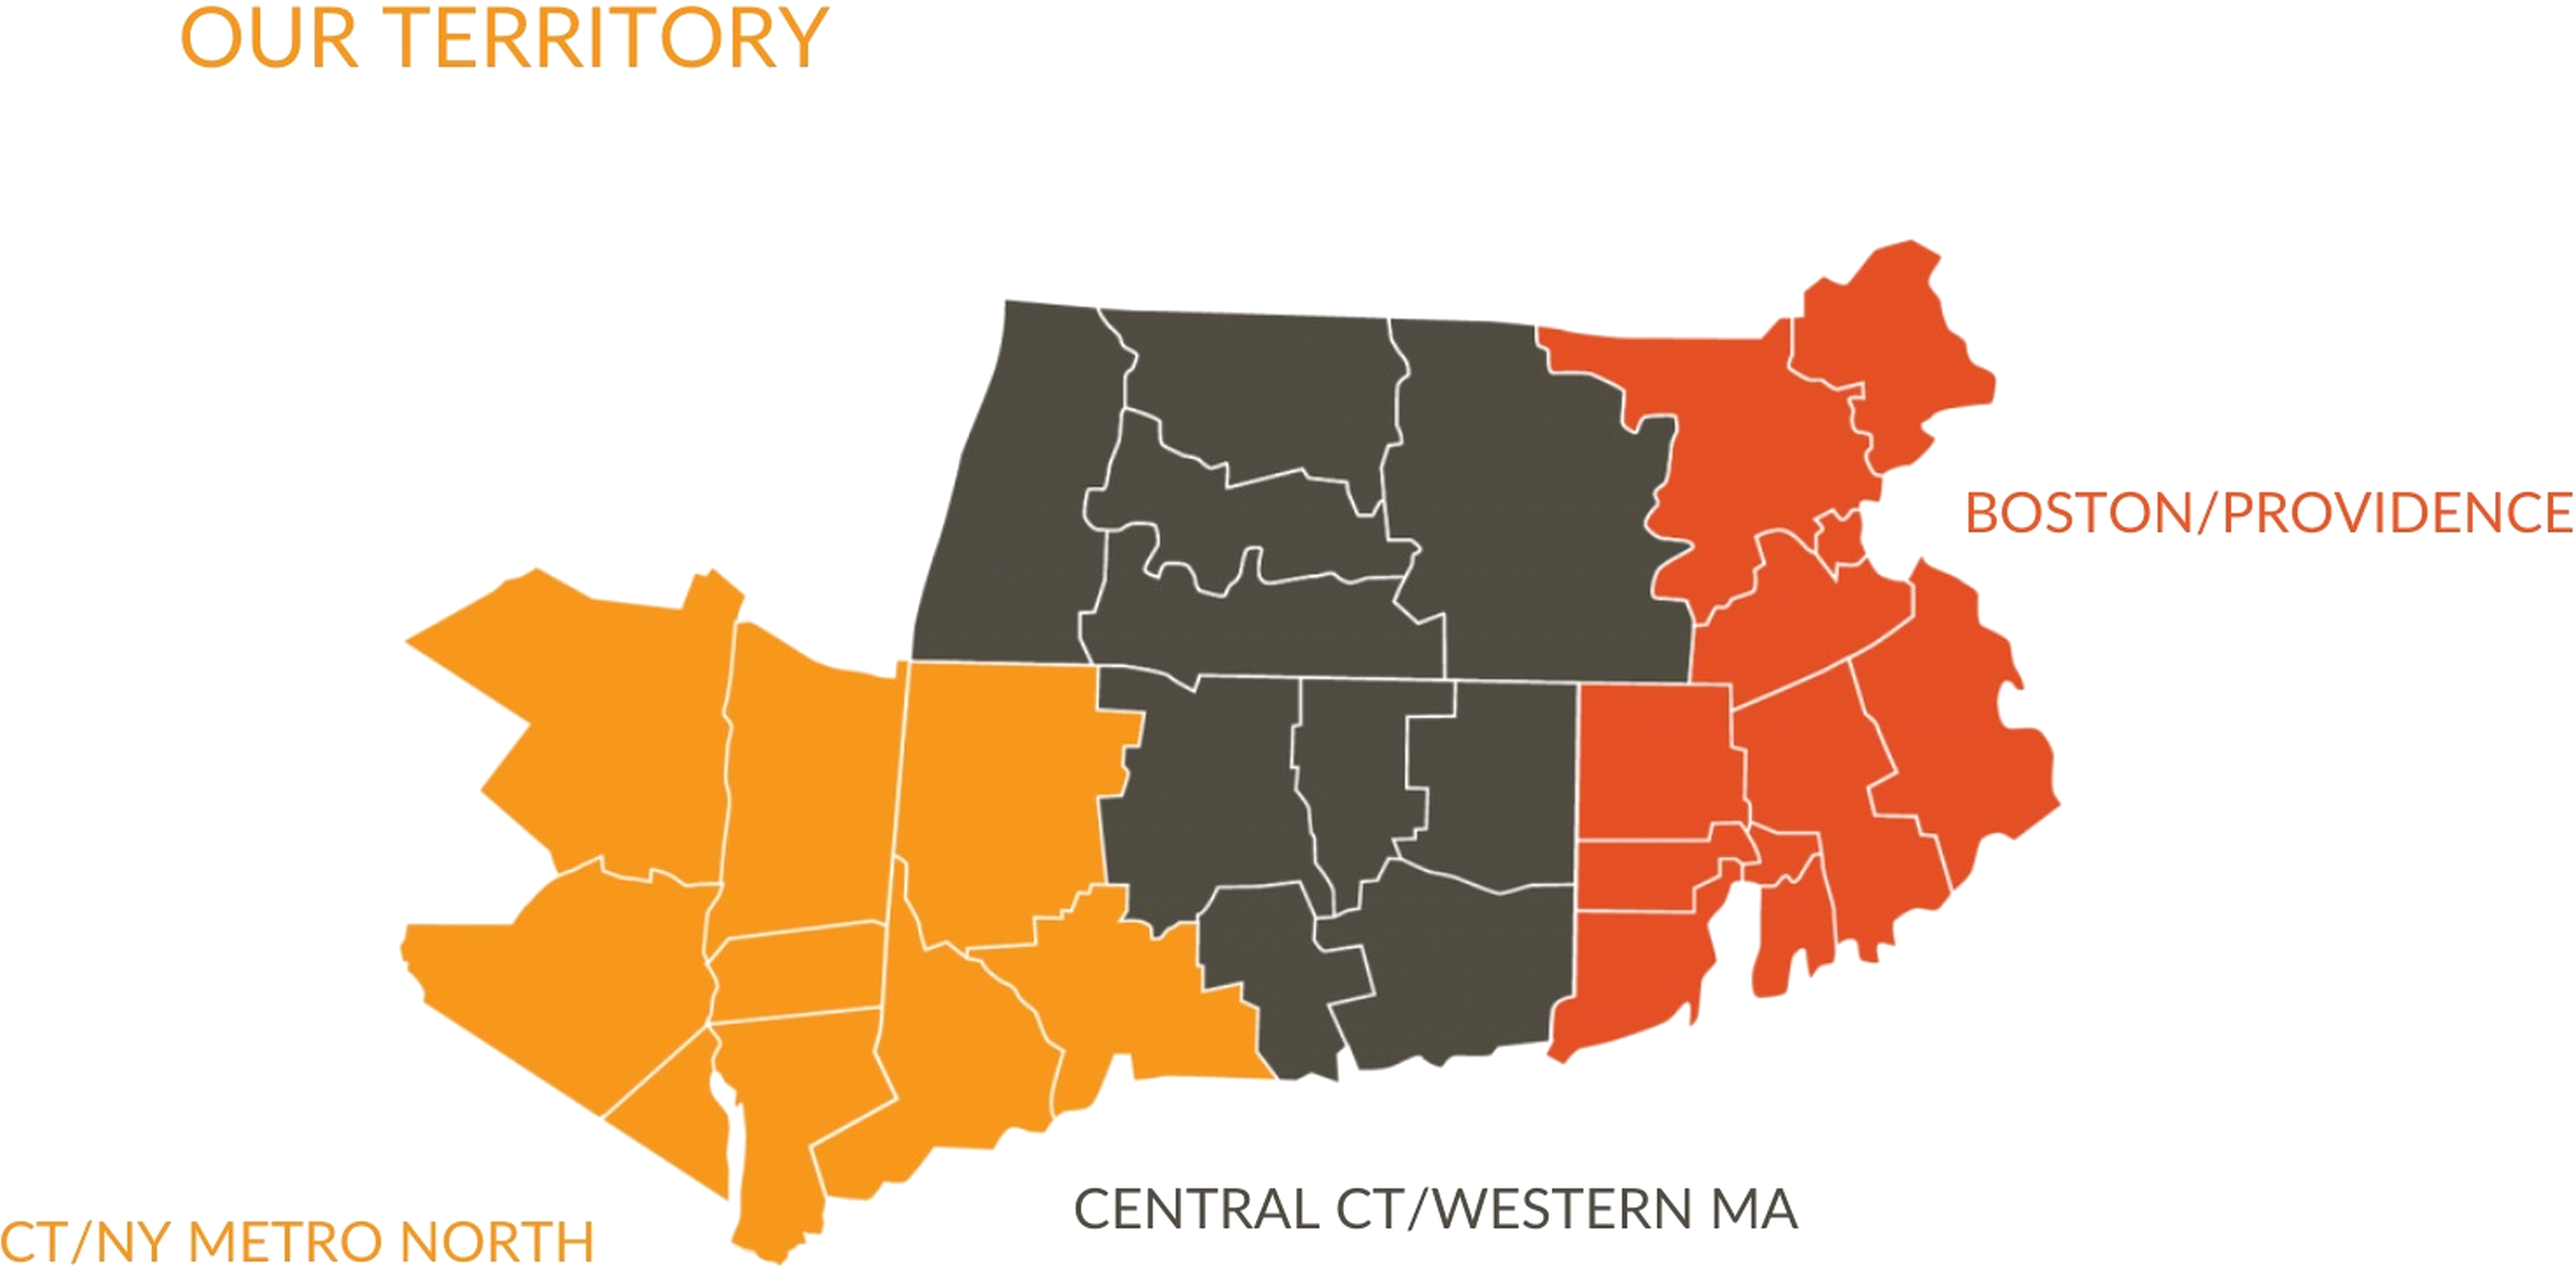
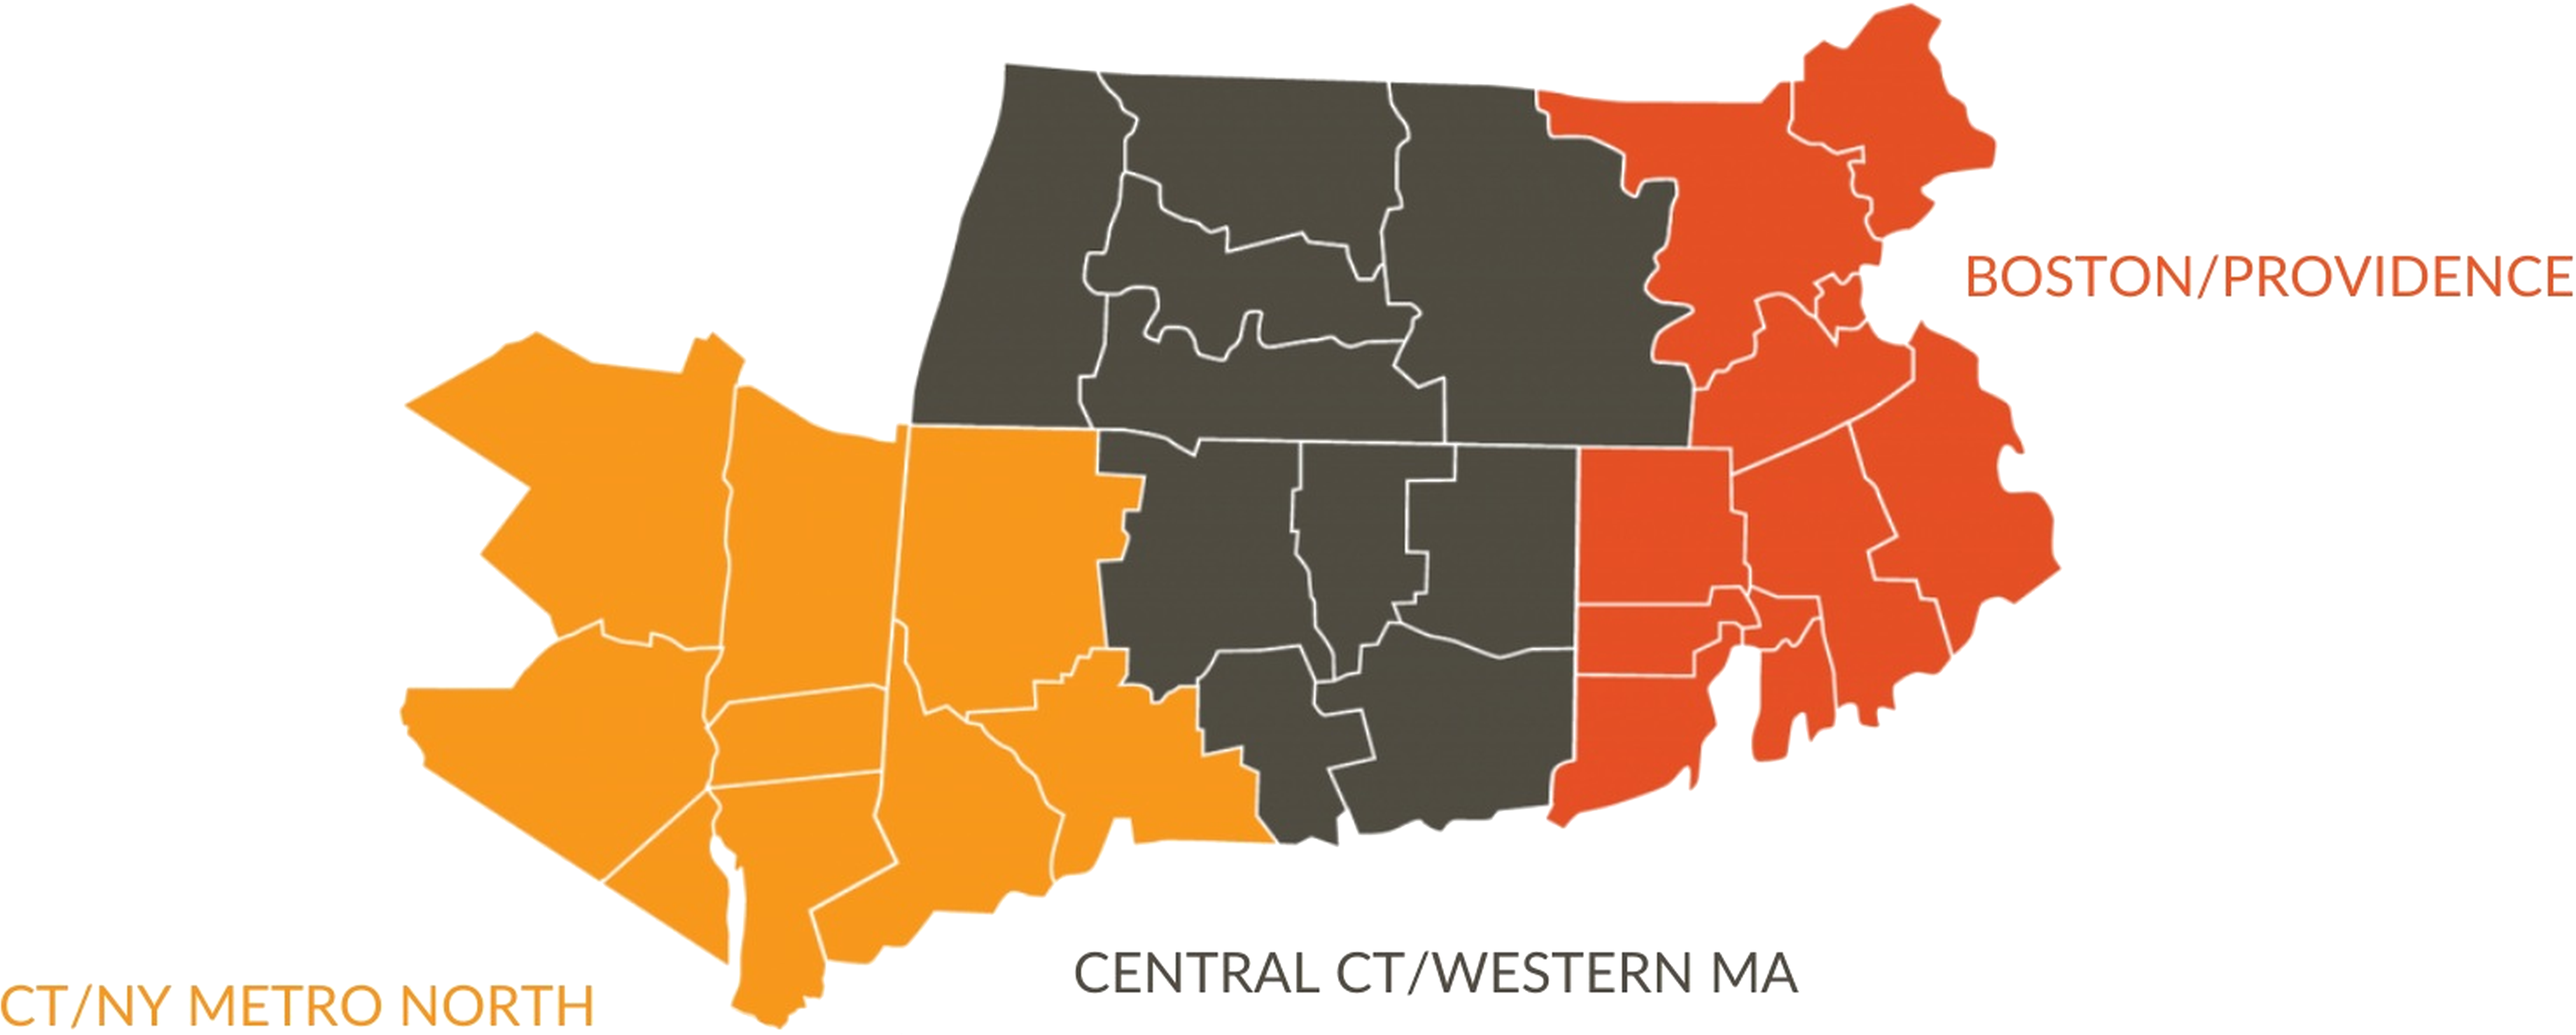
Polish deal cards, remove decorative triangles, widen notable sales section
- Remove orange corner triangles from header and footer
- Widen NPCG Notable Sales boxes by reducing section padding to 8mm
- Fix deal card text hierarchy: name 11pt > metric value 9pt > labels 7.5pt
- Add white-space: nowrap to property type and name
- Normalize property type letter-spacing to 0.05em
- Rename Sq. Ft. to SF, Chestnut Street Townhomes to Chestnut St. Townhomes
- Center NPCG Notable Sales eyebrow vertically via margin redistribution
- Revert stats background to solid carbon, restore hero-coverage padding

diff --git a/index.html b/index.html
@@ -88,15 +88,6 @@ body {
   background: #ffffff;
   position: relative; overflow: hidden;
 }
-/* top-right corner triangle */
-.head::after {
-  content: '';
-  position: absolute; top: 0; right: 0;
-  border-style: solid;
-  border-width: 0 13mm 13mm 0;
-  border-color: transparent rgba(248,151,29,0.38) transparent transparent;
-  z-index: 3;
-}
 .head__logo     { height: 16mm; width: auto; display: block; }
 .head__meta     { display: flex; align-items: center; gap: 5mm; }
 .head__sep      { width: 0.3mm; height: 4.5mm; background: var(--stone); flex-shrink: 0; }
@@ -133,12 +124,12 @@ body {
   z-index: 1;
 }
 .hero-coverage__left {
-  padding: 7mm 9mm 31mm 14mm;
+  padding: 7mm 9mm 34mm 14mm;
   background: var(--linen);
   position: relative; z-index: 2;
 }
 .hero-coverage__right {
-  padding: 7mm 14mm 31mm 9mm;
+  padding: 7mm 14mm 34mm 9mm;
   background: #ffffff;
   display: flex; flex-direction: column;
   position: relative; z-index: 2;
@@ -197,7 +188,7 @@ body {
   display: grid; grid-template-columns: 1fr 1fr 1fr;
   position: relative; overflow: hidden;
   border-top: 1.5mm solid var(--orange);
-  background: linear-gradient(150deg, #343f4d 0%, var(--carbon) 60%, #2e3742 100%);
+  background: var(--carbon);
 }
 /* rotated outline square — upper right */
 .stats::before {
@@ -229,13 +220,13 @@ body {
   margin-bottom: 2.5mm; opacity: 0.9;
 }
 .stat__figure {
-  font-size: 20pt; line-height: 1; letter-spacing: -0.03em;
+  font-size: 18pt; line-height: 1; letter-spacing: -0.03em;
   color: #ffffff; font-weight: 800; margin-bottom: 3mm;
   text-shadow: 0 0 14mm rgba(248,151,29,0.22);
 }
 .stat__figure .small       { font-size: 13pt; color: var(--orange); font-weight: 700; }
-.stat__figure .stat__plus  { font-size: 20pt; color: #ffffff; font-weight: 700; vertical-align: baseline; }
-.stat__figure .small--light { font-size: 13pt; color: #ffffff; font-weight: 700; text-transform: uppercase; }
+.stat__figure .stat__plus  { font-size: 18pt; color: #ffffff; font-weight: 700; vertical-align: baseline; }
+.stat__figure .small--light { font-size: 18pt; color: #ffffff; font-weight: 700; }
 .stat__label {
   font-size: 8pt; font-weight: 400; letter-spacing: 0.1em;
   text-transform: uppercase; color: rgba(246,242,238,0.92);
@@ -245,14 +236,15 @@ body {
 
 /* ── TRACK RECORD ─────────────────────────────── */
 .deals {
-  padding-top: 6mm; padding-bottom: 7mm;
+  padding-top: 3mm; padding-bottom: 7mm; padding-left: 8mm; padding-right: 8mm;
   display: grid; grid-template-columns: 1fr 1fr; gap: 4mm;
 }
 .deals__head {
   grid-column: 1 / -1;
   display: flex; justify-content: space-between; align-items: flex-end;
-  padding-bottom: 1mm; border-bottom: 0.4mm solid rgba(40,27,18,0.22);
+  padding-bottom: 3mm; border-bottom: 0.4mm solid rgba(40,27,18,0.22);
 }
+.deals__head .section-eyebrow { margin-top: 2.5mm; margin-bottom: 1.5mm; }
 .deal {
   background: var(--linen);
   border: 0.3mm solid rgba(40,27,18,0.18);
@@ -290,12 +282,14 @@ body {
 }
 .deal__head { display: flex; justify-content: space-between; align-items: baseline; }
 .deal__type {
-  font-size: 8pt; font-weight: 700;
-  letter-spacing: 0.24em; color: var(--stone); text-transform: uppercase;
+  font-size: 7.5pt; font-weight: 700;
+  letter-spacing: 0.05em; color: var(--stone); text-transform: uppercase;
+  white-space: nowrap;
 }
 .deal__name {
-  font-size: 9pt; line-height: 1.15;
+  font-size: 11pt; line-height: 1.15;
   color: var(--graphite); font-weight: 700; letter-spacing: -0.01em;
+  white-space: nowrap; overflow: hidden; text-overflow: ellipsis;
 }
 .deal__loc {
   font-size: 8pt; font-weight: 600; letter-spacing: 0.1em;
@@ -304,15 +298,15 @@ body {
 .deal__divider { height: 0.3mm; background: rgba(40,27,18,0.15); margin: 1mm 0; }
 .deal__metrics { display: flex; flex-direction: column; gap: 1.5mm; }
 .deal__metric-label {
-  font-size: 8pt; font-weight: 700;
+  font-size: 7.5pt; font-weight: 700;
   letter-spacing: 0.2em; color: var(--stone); text-transform: uppercase;
   margin-bottom: 0.8mm;
 }
 .deal__metric-value {
-  font-size: 10pt; font-weight: 800;
+  font-size: 9pt; font-weight: 800;
   color: var(--graphite); letter-spacing: -0.01em;
 }
-.deal__metric-value .small { font-size: 8.5pt; color: var(--orange); font-weight: 700; }
+.deal__metric-value .small { font-size: 8pt; color: var(--orange); font-weight: 700; }
 
 /* ── FOOTER QUOTE ─────────────────────────────── */
 .quote {
@@ -321,14 +315,6 @@ body {
   display: flex; align-items: center; justify-content: space-between; gap: 8mm;
   background: var(--linen);
   position: relative; overflow: hidden;
-}
-/* corner triangle — bottom right */
-.quote::after {
-  content: '';
-  position: absolute; bottom: 0; right: 0;
-  border-style: solid;
-  border-width: 0 0 14mm 14mm;
-  border-color: transparent transparent rgba(248,151,29,0.2) transparent;
 }
 .quote__body {
   padding-left: 4mm; border-left: 1.5mm solid var(--orange);
@@ -441,7 +427,7 @@ body {
             <div class="deal__metric-value">$5,695,000</div>
           </div>
           <div>
-            <div class="deal__metric-label">Sq. Ft.</div>
+            <div class="deal__metric-label">SF</div>
             <div class="deal__metric-value">45,133</div>
           </div>
         </div>
@@ -470,7 +456,7 @@ body {
             <div class="deal__metric-value">$4,750,000</div>
           </div>
           <div>
-            <div class="deal__metric-label">Sq. Ft.</div>
+            <div class="deal__metric-label">SF</div>
             <div class="deal__metric-value">9,402</div>
           </div>
         </div>
@@ -490,7 +476,7 @@ body {
         <div class="deal__head">
           <div class="deal__type">Multifamily</div>
         </div>
-        <div class="deal__name">Chestnut Street Townhomes</div>
+        <div class="deal__name">Chestnut St. Townhomes</div>
         <div class="deal__loc">Danbury, CT</div>
         <div class="deal__divider"></div>
         <div class="deal__metrics">
